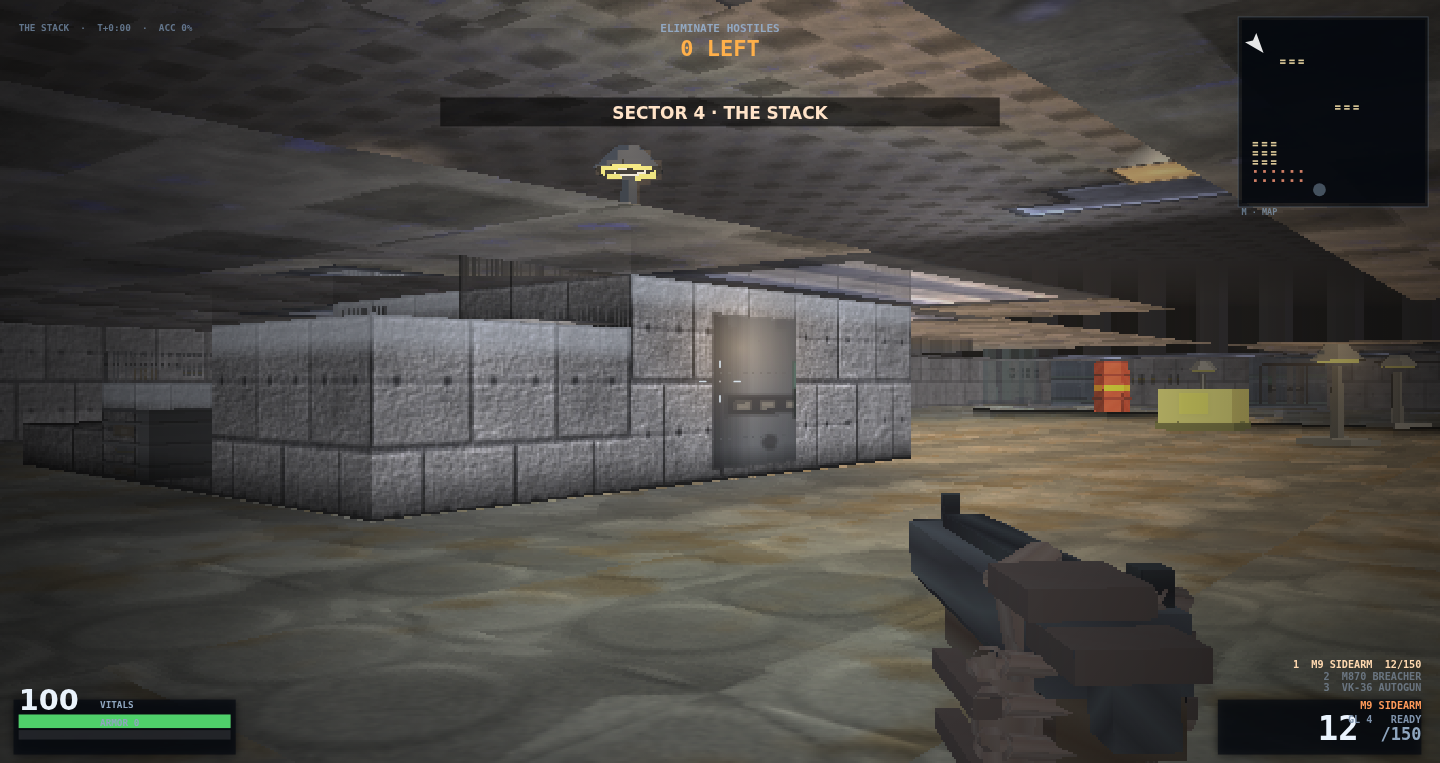
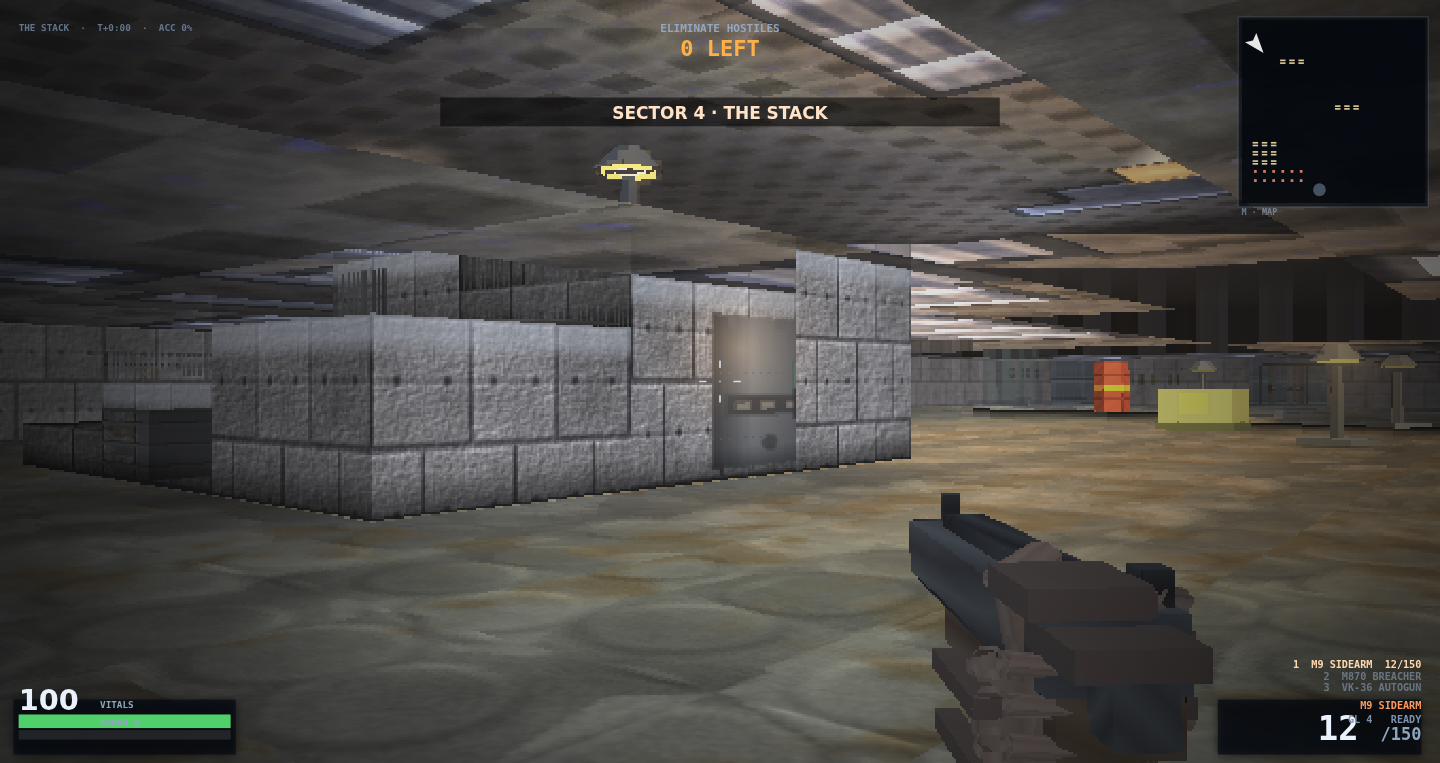
docs(#931): THE STACK's front-page frame is re-taken off the build that ships
The eight frames were re-keyed onto 709c934 by recap's pixel arbiter, which paints the dealt
camera-0 seat of each sector. At three of those seats ae0dd1d and 709c934 are byte-identical, and
the seventh row this page prints is not one of those seats: THE STACK's frame is its arrival pose at
(1.5, 2.5) on 0.8761, and there the authored deck of #421/#917 - standing above the hall's own
ceiling plane - repaints 81,405 px / 7.41% of the picture at +16.66 lumas each, mean 70.33 -> 71.55.

So that one frame was re-shot off the deploy proved twelve blobs for twelve against 709c934, and its
provenance row re-keyed to layout 3132488476 (DEV.state().layout folds MAP.fz then MAP.cell, so on a
hand-written level the number states the plan, and the plan changed). The other seven rows are
carried, as the arbiter and an off-the-wire read of the same page both say they should be. Captions,
the mean list, the per-frame delta list and the three sentences naming THE STACK's signature are
re-measured. No threshold, bar, view clause, recorded reference or shipped byte moved.

diff --git a/README.md b/README.md
@@ -51,7 +51,7 @@ a byte claim written here is false by the next merge (#395). What *changed* betw
 in the PR that moved it, not here.
 
 `node tools/recap.js check` decodes the eight PNGs and fails if any number below disagrees with the
-bytes, so a caption cannot drift from its frame. The eight frames decode to **60.60 / 81.41 / 60.60 / 65.89 / 65.01 / 70.33 / 66.92 / 63.60** mean luma
+bytes, so a caption cannot drift from its frame. The eight frames decode to **60.60 / 81.41 / 60.60 / 65.89 / 65.01 / 71.55 / 66.92 / 63.60** mean luma
 (`0.2126 R + 0.7152 G + 0.0722 B`, the rule `DEV.lum` uses), in the order they appear below. A dark
 row below means a row whose own mean luma is under 24 — the threshold the tool measures at, whatever
 number a sentence labels. The same command subtracts, frame by frame, the mean of the frame each one
@@ -65,27 +65,34 @@ the bind hashes have moved since these frames were last taken, and three of them
 `js/40_render.js` (#941); `js/00_core.js` and `js/90_dev.js` moved with that ramp's own switch and carry no pixel. The
 arbiter came back `FRAME-MOVED` instead of `FRAME-EQUIV`, so all eight poses were re-run off the deployed page rather
 than re-keyed.
-Seven frames come back *lighter* — four of them by two hundredths of a luma or less — one darker, between **0.10%** and
-**0.78%** of each picture different. The furthest is ABATOIR CORE tilted up at its ceiling: **+0.92** lumas over **0.78%** of its pixels, the roof band coming up from 57.4 to 59.3, which is #495 paying
-for a room's own roof out of its deck. The ABATOIR arrival seat is the other frame a player reads differently: **−0.16**
-over **0.57%** — 4,205 of those pixels along the slab across the top of the picture, 1,601 in the middle and 459 on the
-deck that pays for it. The five ARCHIVE poses and THE STACK moved between **0.10%** and **0.41%** of their
-pixels and by a tenth of a luma of mean or less: a thin band under the horizon where a storey's far edge used to
-arrive as a torn black staircase and now arrives as a surface (#941), and the columns the held rifle occupies, which is
-the disagreement between two page loads #611 already names.
+Five frames come back *lighter* by six hundredths of a luma or less, between **0.10%** and **0.22%** of each picture
+different, and one comes back darker — ABATOIR CORE's arrival seat, **−0.16** over **0.57%**, 4,205 of those pixels along
+the slab across the top of the picture, 1,601 in the middle and 459 on the deck that pays for it. Two moved by more than
+a tenth of a luma, and they moved for different reasons. ABATOIR CORE tilted up at its ceiling is the paint: **+0.92**
+lumas over **0.78%** of its pixels, the roof band coming up from 57.4 to 59.3, which is #495 paying for a room's own roof
+out of its deck. THE STACK is the room: **+1.33** over **7.82%** of its picture, and no renderer byte moved those pixels.
+#421 authors a storey into that plan and #917 leaves the authored deck standing above the hall's own ceiling plane, so
+the frame this page printed showed a shallower room than the one the shipped build draws. The five ARCHIVE poses moved
+the least: a thin band under the horizon where a storey's far edge used to arrive as a torn black staircase and now
+arrives as a surface (#941), and the columns the held rifle occupies, which is the disagreement between two page loads
+#611 already names.
 A delta is a statement about the exposure a room lands at, not about how much of the picture moved, which is why every
 caption below states its kept-pixel percentage beside its mean.
 Every row of `provenance.json` carries its own replaced-frame mean so the direction is readable per frame rather than
 only in aggregate.
 
-All eight are bound to build `709c934`, the one main ships, and the camera ran one build behind it: the page they were
-shot off was proved twelve blobs for twelve against `ae0dd1d`, `709c934` differs from that build in `js/20_level.js`
-alone, and the arbiter painted the three seats these rows name from both trees and got back byte-identical frames —
-the verdict that says the record needs a re-key and no second shutter is owed (#910). Against the frames on the page
+Seven of the eight rows are bound to build `709c934`, the one main ships, off a camera that ran one build behind it: the
+page they were shot off was proved twelve blobs for twelve against `ae0dd1d`, `709c934` differs from that build in
+`js/20_level.js` alone, and the arbiter painted its own three seats from both trees and got back byte-identical frames —
+the verdict that says a record needs a re-key and no second shutter is owed (#910). That verdict did not cover the
+eighth row, and review caught it: the arbiter paints the dealt camera-0 seats, and the frame this page prints for THE
+STACK is its arrival pose, where those two builds part by 7.41% of the picture. So `level3-stack` was re-shot off the
+`709c934` deploy itself — proved twelve blobs for twelve before the shutter — and the seven the arbiter spoke for were
+carried. Against the frames on the page
 before this one five of the twelve blobs moved and three of them paint, which is the verdict that did ask for a camera. All eight came back with new bytes —
-none of them the sha256 the front page carried — and all eight came back on the three layout signatures the replaced rows
-already name (ARCHIVE 4083630493, ABATOIR 2343219222, THE STACK 3610925125), so every delta below is a statement about
-the paint and none about the dice. The two
+none of them the sha256 the front page carried — and seven came back on the two layout signatures the replaced
+rows already name (ARCHIVE 4083630493, ABATOIR 2343219222), so every delta below is a statement about the paint and none
+about the dice — with the one exception its own caption names. The two
 changes the pass before this one made are still in the picture: standing on a raised band, the strip of picture at the edge of your own deck used to be painted
 as a wall face at the boundary's own distance, and it is now the deck up to the lip and whatever honestly stands behind
 it (#517) — and the lit crease where that walkable surface stops now keeps a floor under it, so the edge still reads in a
@@ -94,9 +101,9 @@ below hashes, and both were already inside the bytes these frames replace — wh
 picture apart from the gun's own columns, and why no ARCHIVE pose here moves because of a deck edge. What a player sees
 differently in this set is three other things: a roof that pays for its own room out of its deck (#495, `js/20_level.js`),
 a storey's far edge that stops arriving as a torn black staircase (#941, `js/40_render.js`), and a hostile at 6 m who
-keeps the surface he has at 8 m (#922, `js/13_mesh.js`). The eight poses came back on the same
-three layout signatures the replaced rows name — ARCHIVE 4083630493, ABATOIR 2343219222, THE STACK 3610925125 — so the
-deltas below are a statement about paint, not about the dice. The pass supersedes the frames this page carries
+keeps the surface he has at 8 m (#922, `js/13_mesh.js`). The seven carried poses came back on the same
+two seeded signatures the replaced rows name — ARCHIVE 4083630493, ABATOIR 2343219222 — so their deltas are a statement
+about paint, not about the dice; the eighth moved with the plan it is drawn from. The pass supersedes the frames this page carries
 (`f42f5ce`, re-taken by #914 — the bytes at `b5b8b74` and `d7a0196` are those same bytes), and the re-key proved its
 build off the wire before the record moved to it: `index.html` and
 every script that page loads — twelve blobs — sha256-match `git show ce6b539:<file>` twelve for twelve, so every frame
@@ -125,13 +132,15 @@ same command also prints a
 `CAPTION-VERDICT` row that compares this sentence with the digests, so the page cannot be left a pass behind by the
 pass it describes (#653).
 
-What a reader should take from the eight frames is that the rooms held and the paint moved. All three dealt signatures
-came back identical to the ones the rows these frames replace name: ARCHIVE SUBLEVEL 4083630493, ABATOIR CORE 2343219222,
-and THE STACK — hand-authored — still 3610925125. One instrument term did *not* come back readable: this pass's headless
+What a reader should take from the eight frames is that the rooms held and the paint moved. The two seeded signatures
+came back identical to the ones the rows these frames replace name: ARCHIVE SUBLEVEL 4083630493 and ABATOIR CORE
+2343219222. THE STACK — hand-authored — came back 3132488476, and that is not a re-cut of the dice: `DEV.state().layout`
+is an FNV fold over the height grid and then the floorplan (`js/90_dev.js:471`), so on a level written cell by cell the
+number states the plan, and #421 authored a different plan. One instrument term did *not* come back readable: this pass's headless
 loads had no audio output device, so `SND.init`'s `AudioContext` constructor returned before setting `SND.ac` and
 `sampleRate` was never read off the page. Each row therefore carries the 44100 Hz its replaced row recorded, and says so
 in its own note. #404's rule is the control read the other way: that term sets how many draws precede generation, so
-had it moved the signatures would have moved with it, and all three did not (#404). So this is today's bytes drawing yesterday's room rather than a
+had it moved the signatures would have moved with it, and neither of the two did (#404). So this is today's bytes drawing yesterday's room rather than a
 new roll: every mean below is a statement about the deal the replaced frame already showed, and a delta below is a
 statement about the paint. That is why every row there states its own sample rate, and why a signature is read as this
 row's deal rather than as a property of the URL. It is also why no caption below states the
@@ -157,10 +166,12 @@ Between the two builds only `js/40_render.js` moved — one blob of the twelve t
 rules about one row of one column: that row now yields for every step down rather than for a one-quantum tread (#517),
 and the crease it paints keeps a six-luma floor, so it survives a lit room (#918). The bind now hashes every script the page's own `index.html` loads rather than four
 hand-picked files, which is the hole #555 was filed for and the row above closes.
-Per frame, in the order the eight appear below, the deltas to **+0.01 / +0.01 / +0.02 / +0.04 / +0.06 / +0.11 / −0.16 / +0.92** mean luma; `recap`
+Per frame, in the order the eight appear below, the deltas to **+0.01 / +0.01 / +0.02 / +0.04 / +0.06 / +1.33 / −0.16 / +0.92** mean luma; `recap`
 computes each one from the two frames and names the row that disagrees, and a caption below repeats only its own
-number. Seven frames come back lighter — four of them by two hundredths of a luma or less — one darker; the furthest
-is the ABATOIR ceiling pose at +0.92, and no pose moved more than four fifths of one per cent of its pixels: `js/20_level.js`
+number. Five frames come back lighter by six hundredths of a luma or less, one darker, and the two that moved further
+than that moved for different reasons: the furthest is THE STACK at +1.33 over 7.82% of its picture — the only pose that
+moved more than four fifths of one per cent of its pixels, and the only one moved by an authored deck rather than by
+paint — while ABATOIR's ceiling pose is +0.92 over 0.78%, where `js/20_level.js`
 parts a roof from its deck (#495), so the two ABATOIR poses are the only ones whose frame holds enough of a lit roof or a
 slab to show it, and the room-side pixels in the ARCHIVE poses are the one far-edge band (#941).
 
@@ -311,8 +322,8 @@ spawn seat's deck, which is why it falls off across the room instead of stepping
 ![the authored two-storey level from its own spawn seat](docs/screens/level3-stack.png)
 
 **THE STACK**, the hand-authored level, from its spawn seat: (1.5, 2.5) on the datum, the derived heading 0.8761, the
-route's clear leaving the HUD at **0 LEFT**, and **0 of 763 rows average below luminance 24** (mean 70.33, thirds 59.3 /
-81.0 / 70.7; at the tool's other bar, no rows under 34 at all). The seat reads back at (1.5, 2.5) on `floorAt` **0.00**,
+route's clear leaving the HUD at **0 LEFT**, and **0 of 763 rows average below luminance 24** (mean 71.55, thirds 61.3 /
+82.7 / 70.7; at the tool's other bar, no rows under 34 at all). The seat reads back at (1.5, 2.5) on `floorAt` **0.00**,
 heading 0.8761, and the plan it sits in is the hand-written one. The heights the replaced caption read off that plan —
 the slab over the seat, the opening the heading stops at, the span of the face crossing the middle of the frame — are
 not restated here: #421 authored a storey into this plan since those numbers were taken, and this pass read the seat,
@@ -327,18 +338,19 @@ glyphs on the minimap are the climb that gets you up there. Hand-authoring remov
 plan is written cell by cell over a 20 × 20 grid — and it also shows what is still missing:
 Whether this seat is genuinely under a second storey is a `tools/view.js volume` claim and this pass did not
 re-read it; what the frame shows is a bright band over a lit deck, which is the shape #353 is about. The vault is still
-not the darkest large surface, its band runs **59.3** against the deck's 80.7, and there is no dark block left to
+not the darkest large surface, its band runs **61.3** against the deck's 82.7, and there is no dark block left to
 count, because #495 gave the ceiling a light floor and this seat's slab top is a lit surface now. The plan is written
-cell by cell and the seat is still (1.5, 2.5), and this frame is **+0.11** on the one it replaces, neither a wall arriving nor a room re-exposed - and the deal held:
-layout **3610925125** is the signature the replaced row names, authored cell by cell, and the seeded stream that rolls
-it was not re-cut. A delta that rounds to nothing is not nothing here:
-**0.41%** of its pixels differ from the bytes it replaces by the kept-pixel rule - 4,488 of them, one pixel in two
-hundred and forty-five, none in the top third, 4,454 in the middle and 34 in the bottom, rows 304 to 518 and columns 293
-to 1235 touched at +7.11 lumas each. That rectangle is the authored storey’s far edge, which on these bytes arrives as a
-surface rather than as torn black steps (#941) - the largest kept-pixel count of the eight. 54 of them are the rifle's own columns; the other 43 are one thin band under the
-horizon where the far edge of a storey now arrives as a surface rather than as torn black steps (#941). What
-moved between these bytes and the last pass is otherwise the same paint as everywhere else in this set - the wall sheet's own
-grain at the range the ashlar faces are actually looked at (#889), over the ashlar family they already wore (#428). The heights the replaced caption read off this plan -
+cell by cell and the seat is still (1.5, 2.5), and this frame is **+1.33** on the one it replaces - the largest move of
+the eight, and the only one that is not a story about paint. The shipped page reports layout **3132488476** at this seat
+where the replaced row named 3610925125, and that number is not a re-cut of the dice: it is an FNV fold over the height
+grid and then the floorplan (`js/90_dev.js:471`), so for a hand-written level it states the plan. #421 authored a storey
+into this plan and #917 left that deck standing above the hall's own ceiling plane, so the slab over this deck is now a
+plane of its own and the frame shows a taller room than the one it replaces. **7.82%** of the picture - 85,897 pixels,
+one in thirteen, 34,960 of them above the horizon and 50,903 in the middle band, rows 0 to 518 across the full width at
++16.17 lumas each - is that slab and the light under it, by far the largest kept-pixel count of the eight. What
+moved between these bytes and the frame before them is otherwise the same paint as everywhere else in this set - the far
+edge of a storey answering with air instead of with nothing (#941), and the wall sheet's own grain at the range the
+ashlar faces are actually looked at (#889), over the ashlar family they already wore (#428). The heights the replaced caption read off this plan -
 the slab at 1.00 over the seat, the atrium opening at 4.00, where the heading's first face stops - are not restated,
 because #548 authors height in the authored cells too and this pass did not re-solve them.
 
